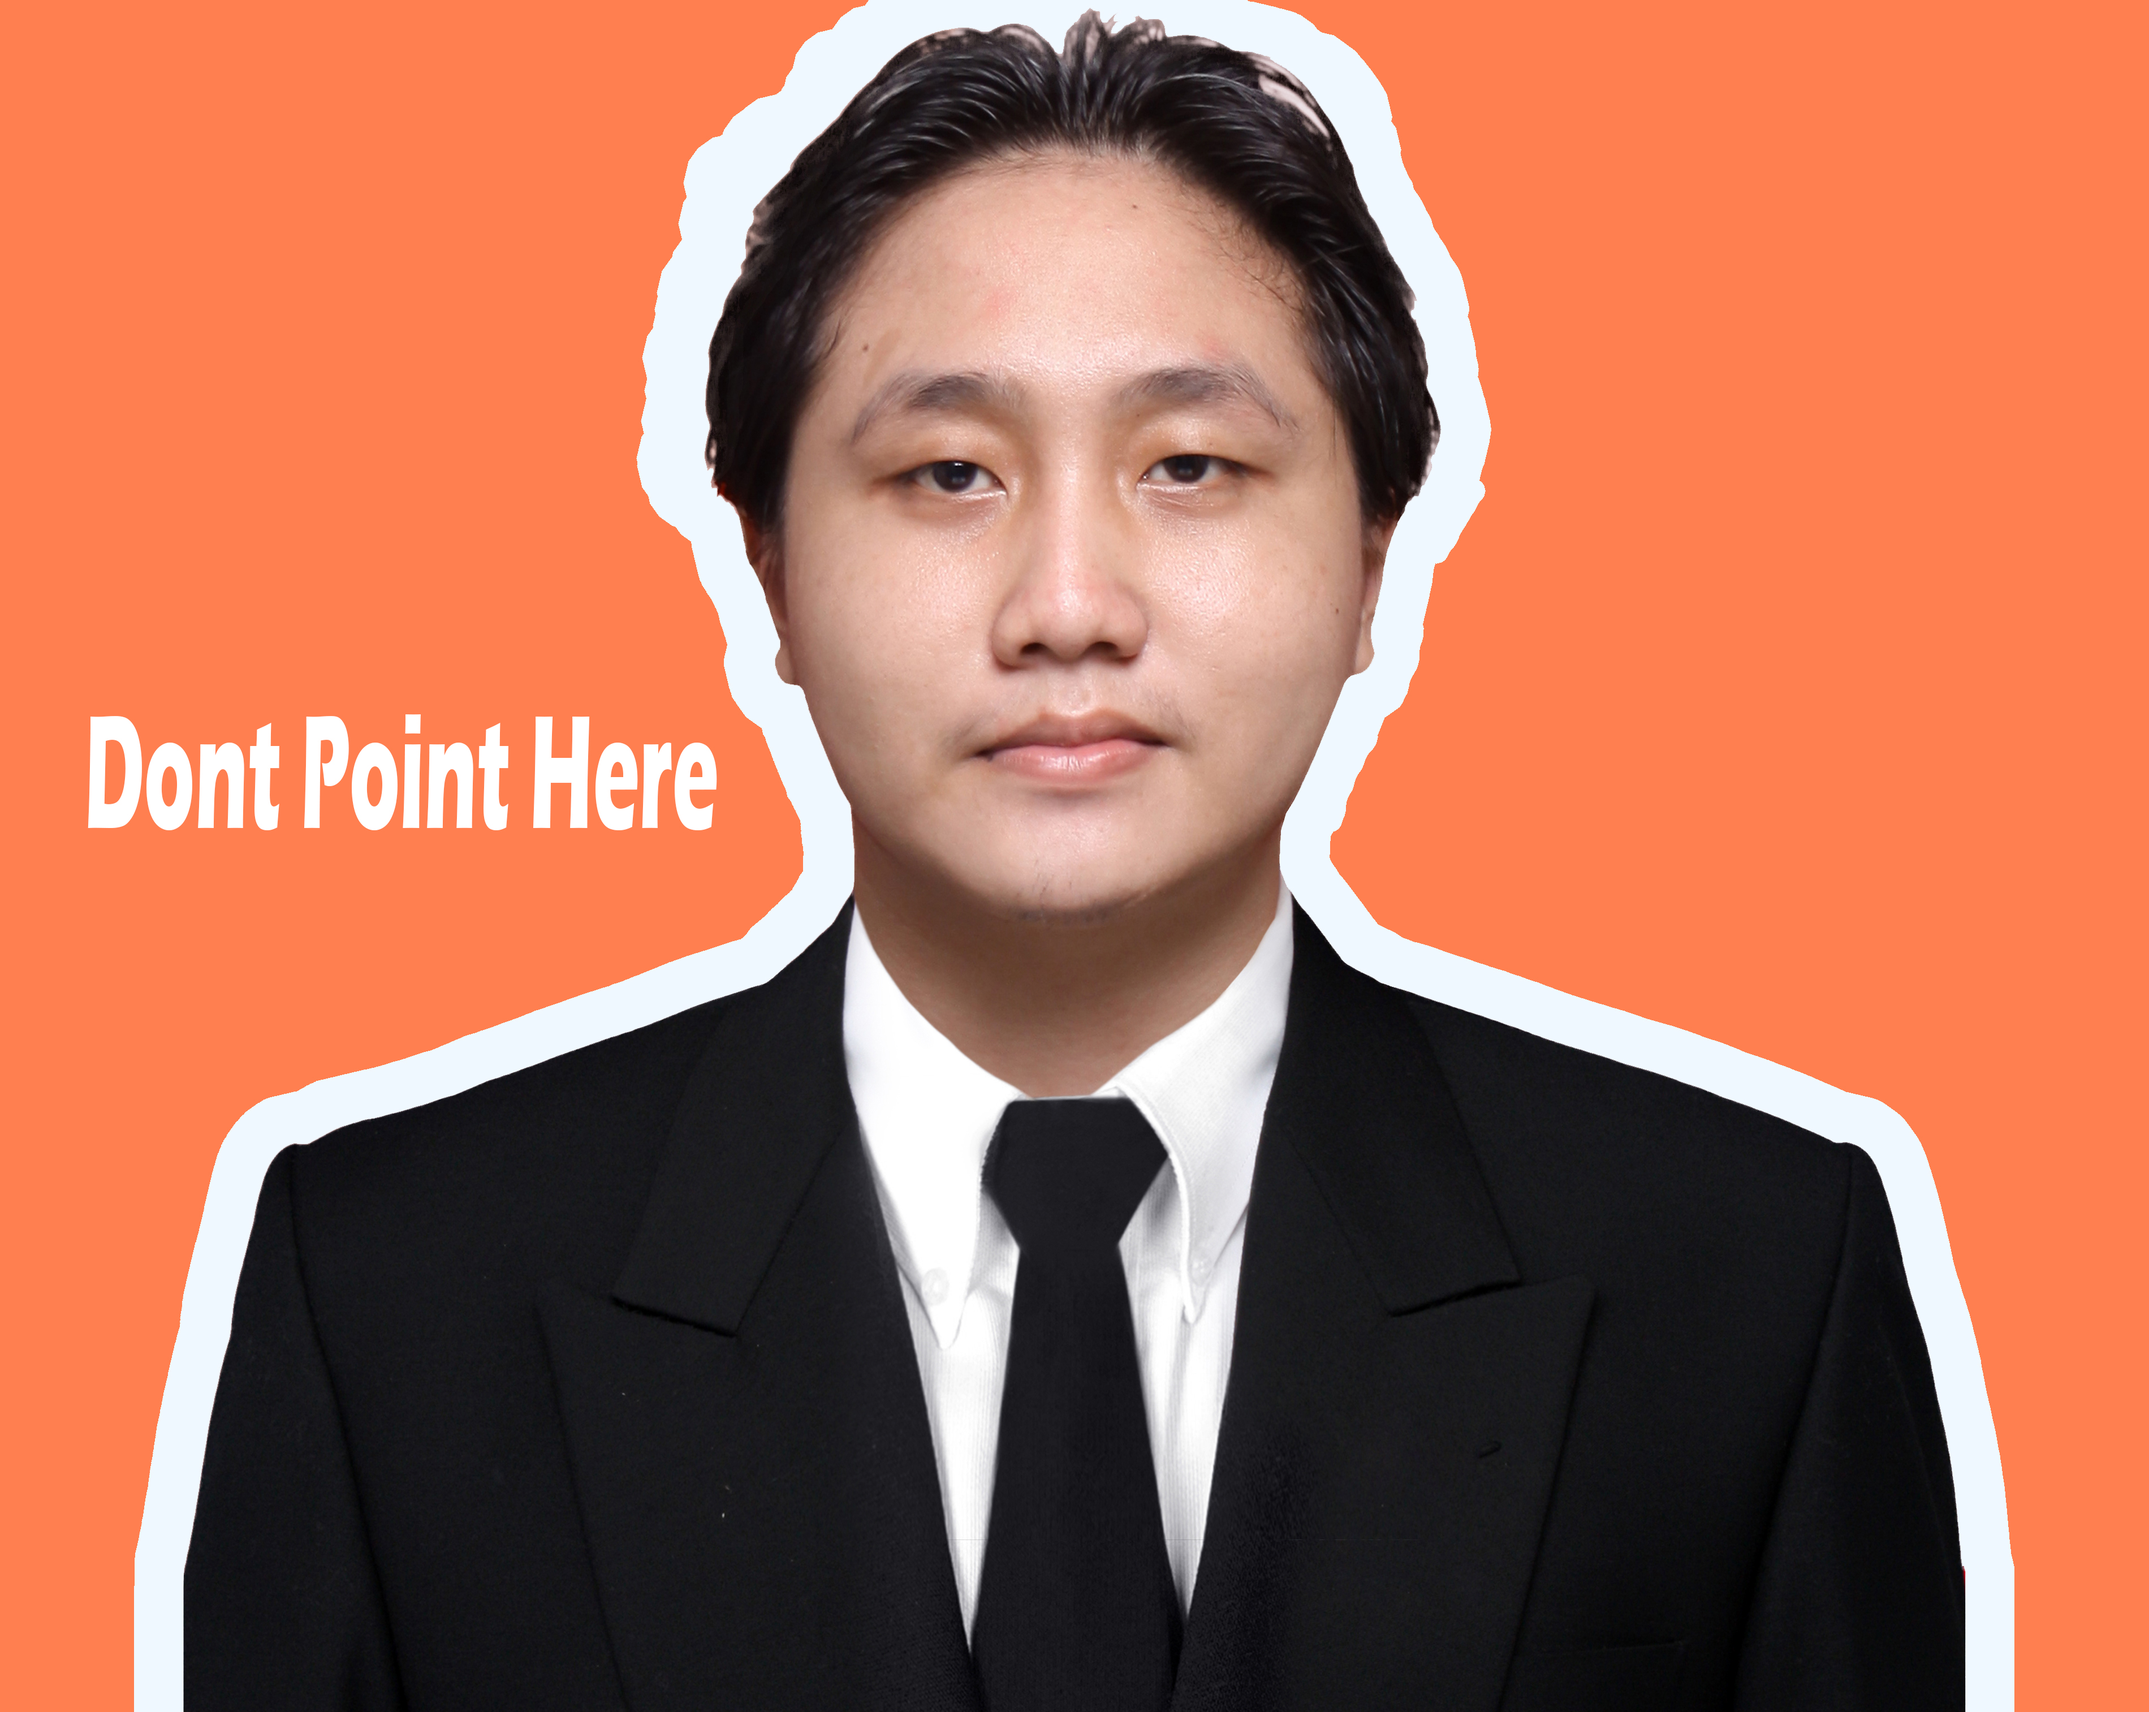
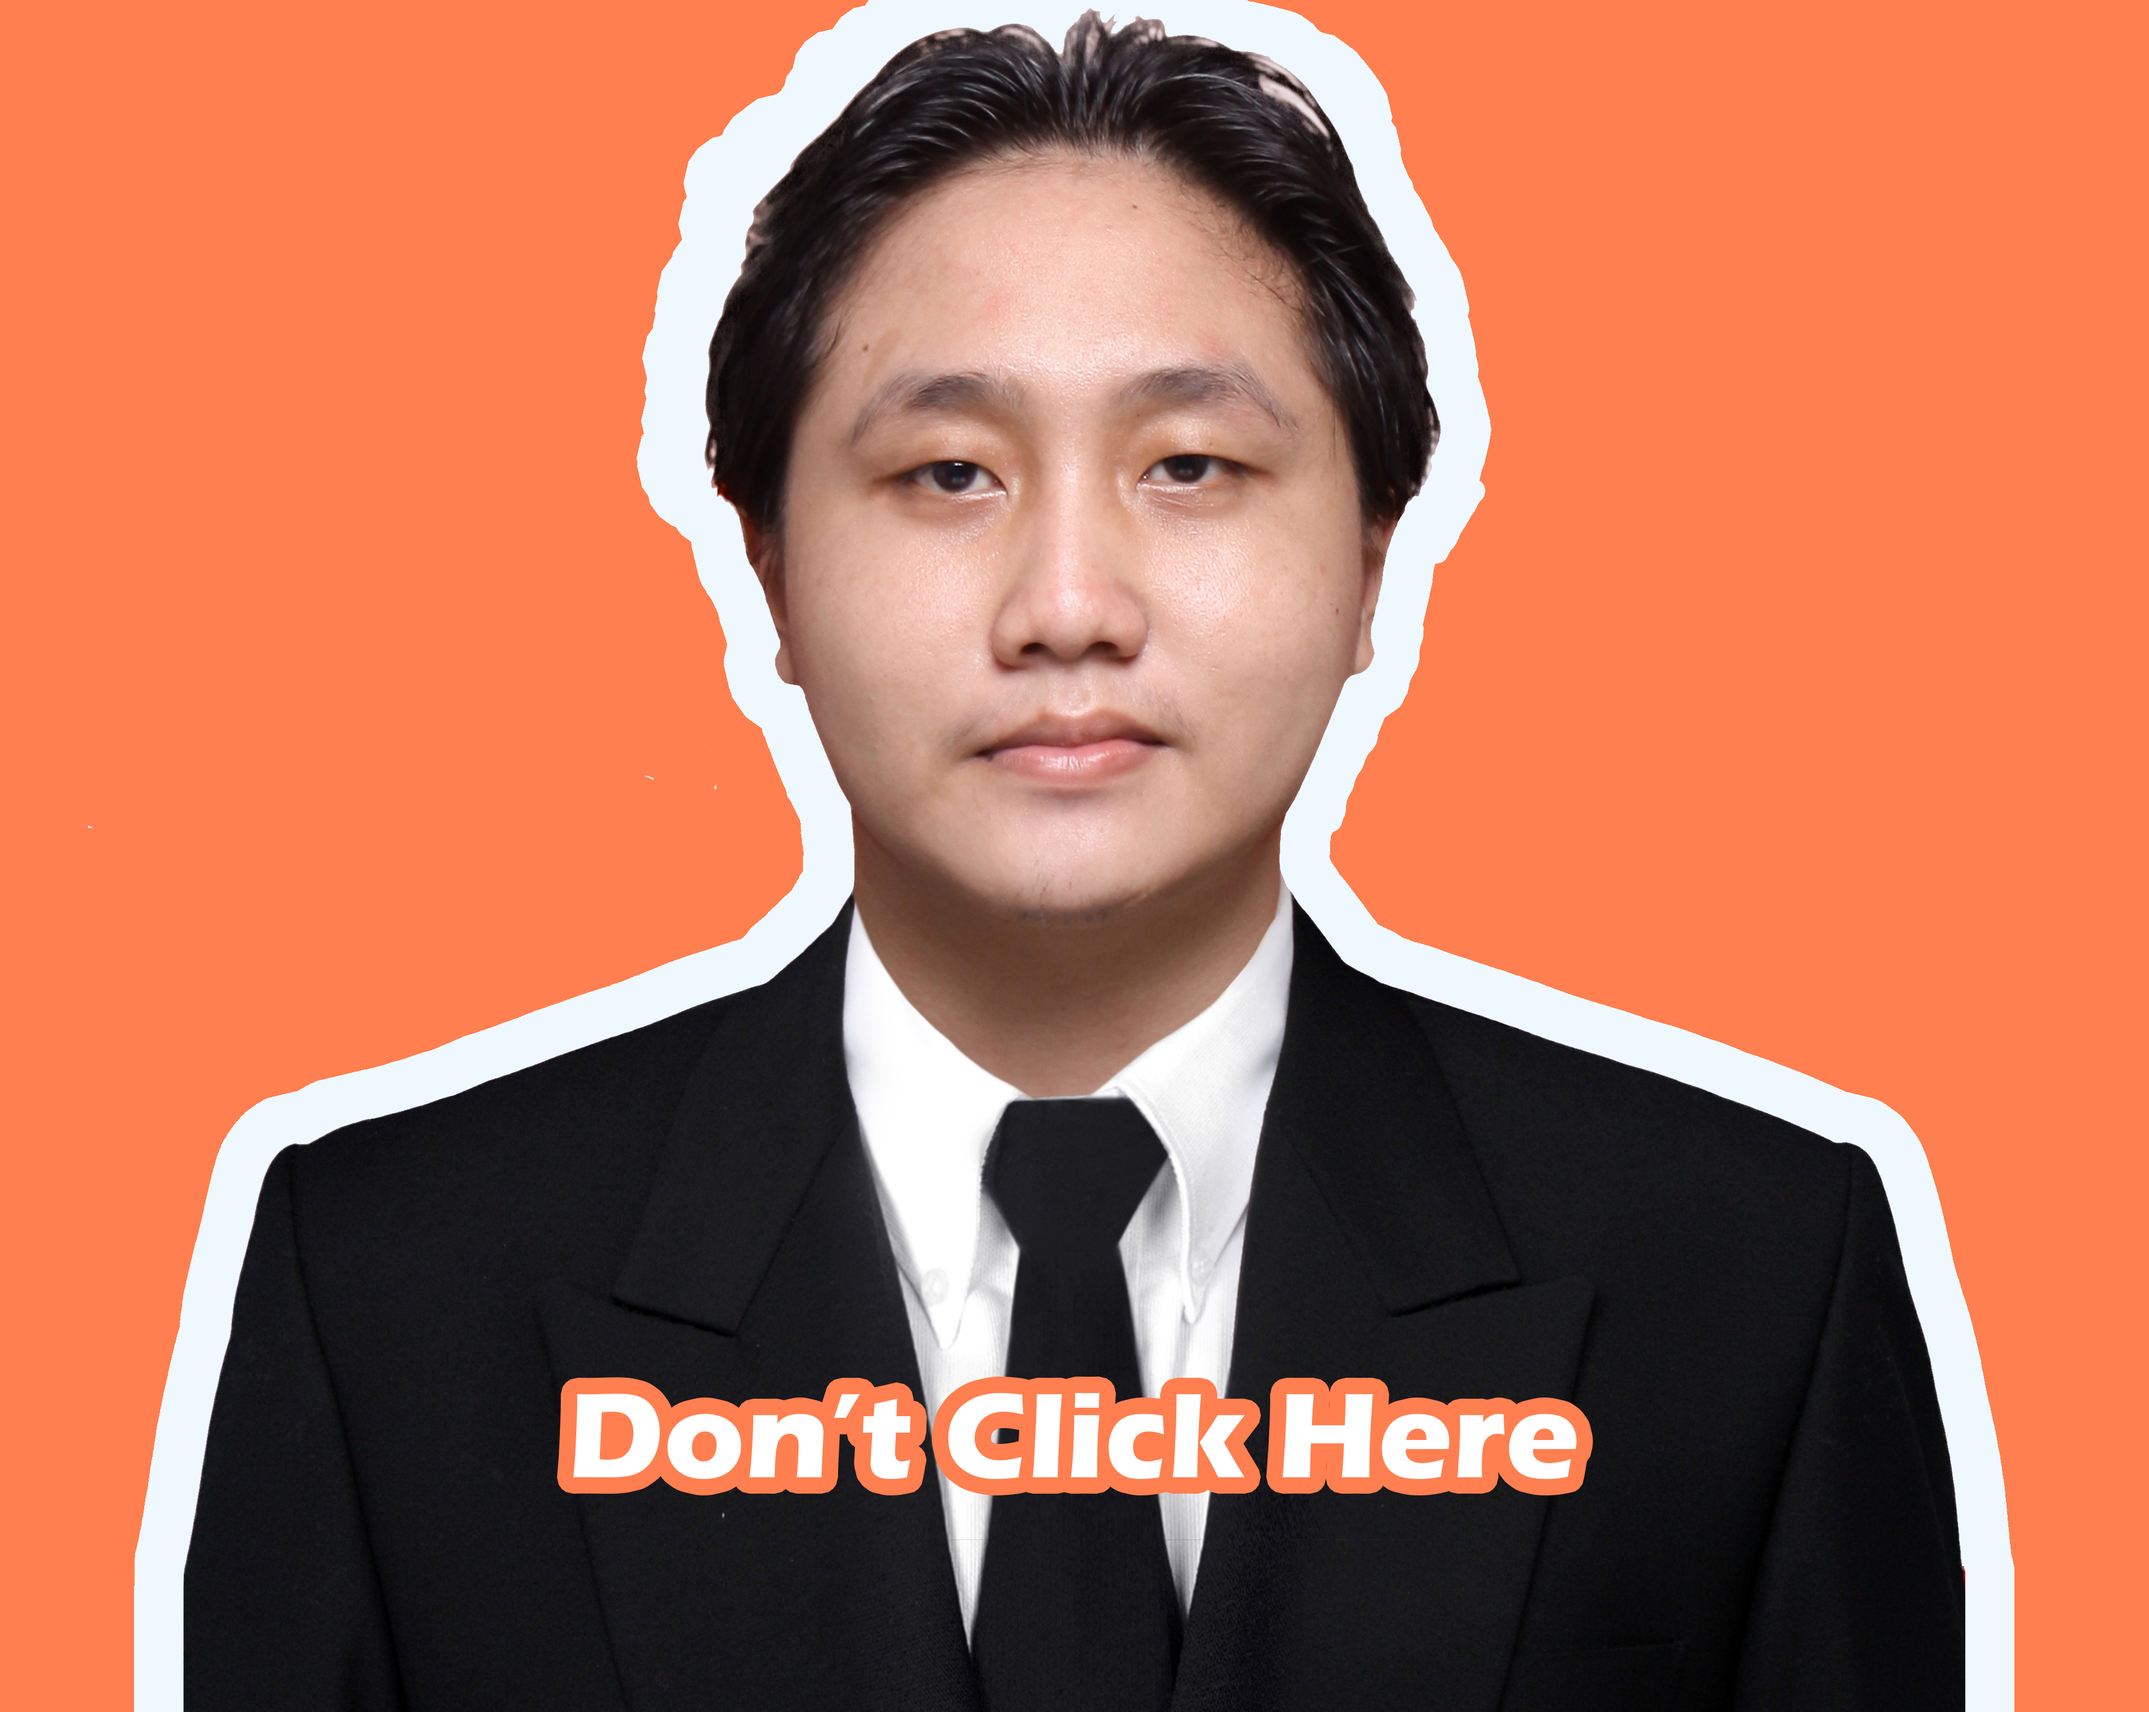
changing proile img effect

Changed region(s): [[0.2484, 0.8074, 0.7453, 0.9006], [0.0311, 0.4037, 0.3416, 0.4969]]

diff --git a/javascript/contentManageAbout.js b/javascript/contentManageAbout.js
@@ -3,14 +3,6 @@ var gun = new Audio("sounds/gun sound.mp3");
 let tabs = document.querySelectorAll(".tabs-title");
 let contents = document.querySelectorAll(".table-content");
 
-//imgProfile hover effect
-imgProfile.addEventListener('mouseover', () => {
-    imgProfile.classList.add('hover-new-profile-pic');
-});
-imgProfile.addEventListener('mouseout', () => {
-    imgProfile.classList.remove("hover-new-profile-pic");
-});
-
 imgProfile.addEventListener('click', () =>{
     gun.play();
     imgProfile.classList.add("click-new-profile-pic");

diff --git a/css/styles.css b/css/styles.css
@@ -254,10 +254,6 @@ img{
       cursor: pointer;
  }
 
- .hover-new-profile-pic{
-    background-image: url("profile-photo2.jpg");
- }
-
  .click-new-profile-pic{
     background-image: url("profile-photo1.jpg");
  }
